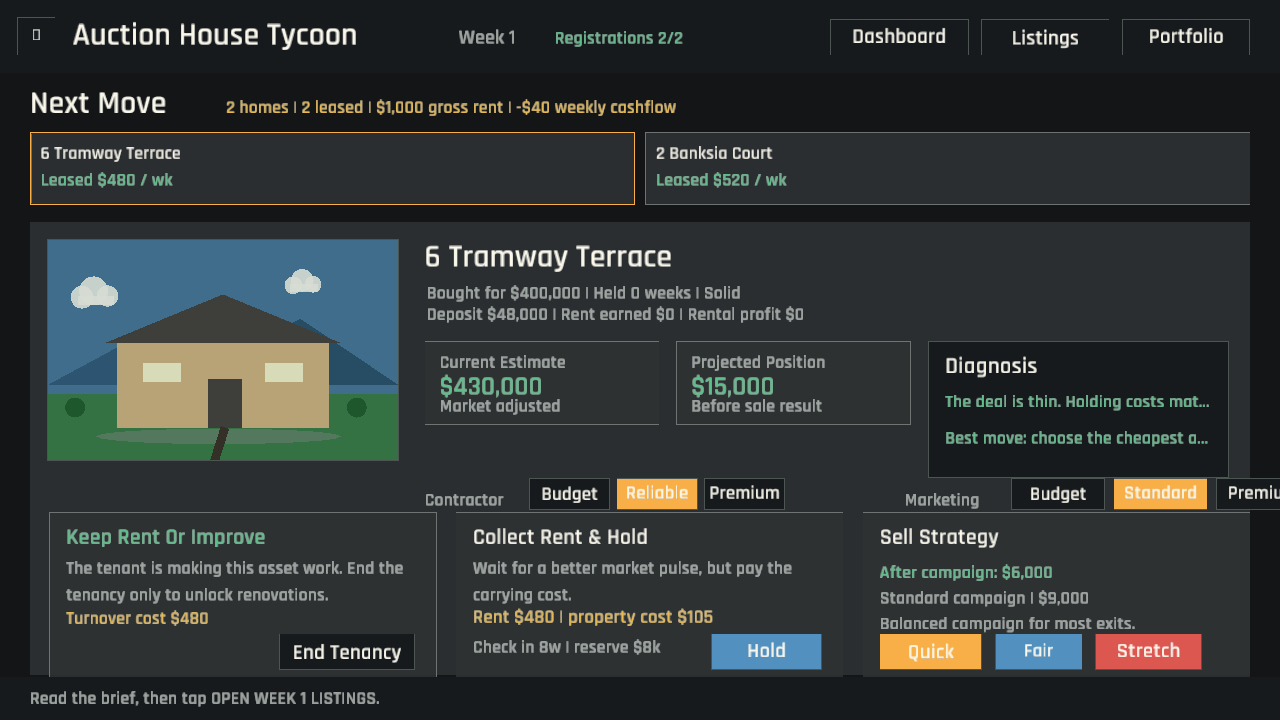
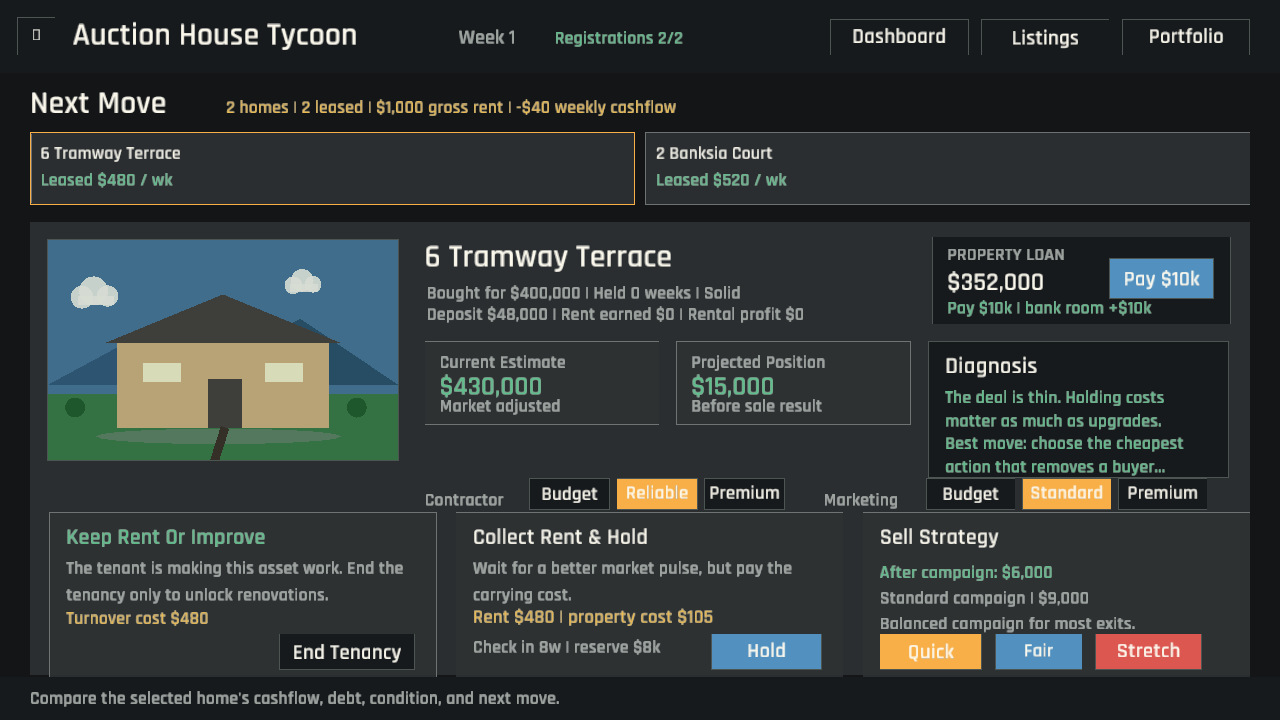
The portfolio learns when spare cash should quiet a loan (principal paydown)
Owning homes needed a capital-allocation decision beyond renovate, lease, hold, or sell. Players can now make a visible ,000 principal payment against the selected property, reducing both loan ledgers and freeing bank headroom while sacrificing liquidity. The portfolio layout now bounds diagnosis copy, fits every selector at browser width, and explains maintenance states without overlap.

Changed region(s): [[0.625, 0.55, 1.0, 0.7333], [0.7188, 0.3361, 0.9688, 0.4583], [0.0312, 0.9472, 0.4375, 0.9778]]

diff --git a/src/screens/portfolio_widgets.rs b/src/screens/portfolio_widgets.rs
@@ -68,13 +68,14 @@ pub(super) fn draw_problem_card(
         };
         (diagnosis.summary.clone(), color)
     };
-    label_fit(
+    draw_limited_lines(
         &summary,
         rect.x + 16.0,
-        rect.y + 62.0,
+        rect.y + 58.0,
         rect.w - 32.0,
         17,
         color,
+        2,
     );
     let detail = owned.active_renovation.as_ref().map_or_else(
         || {
@@ -99,10 +100,10 @@ pub(super) fn draw_problem_card(
             )
         },
     );
-    label_fit(
+    draw_limited_lines(
         &detail,
         rect.x + 16.0,
-        rect.y + 96.0,
+        rect.y + 101.0,
         rect.w - 32.0,
         15,
         if bank_room >= 80_000 {
@@ -112,7 +113,33 @@ pub(super) fn draw_problem_card(
         } else {
             NEGATIVE
         },
+        2,
     );
+}
+
+pub(super) fn draw_loan_control(rect: Rect, owned: &OwnedProperty, cash: i64) -> bool {
+    dark_panel(rect);
+    label("PROPERTY LOAN", rect.x + 14.0, rect.y + 22.0, 13, TEXT_DIM);
+    label(
+        &format_money(owned.debt),
+        rect.x + 14.0,
+        rect.y + 50.0,
+        24,
+        TEXT_BRIGHT,
+    );
+    label(
+        "Pay $10k | bank room +$10k",
+        rect.x + 14.0,
+        rect.y + 72.0,
+        13,
+        POSITIVE,
+    );
+    button(
+        Rect::new(rect.x + rect.w - 114.0, rect.y + 20.0, 98.0, 38.0),
+        "Pay $10k",
+        owned.debt > 0 && cash >= 10_000,
+        ButtonTone::Secondary,
+    )
 }
 
 pub(super) fn draw_maintenance_decision(rect: Rect, owned: &OwnedProperty, cash: i64) -> bool {
@@ -596,7 +623,7 @@ pub(super) fn draw_contractor_selector(app: &mut App, main: Rect, locked: bool) 
 }
 
 pub(super) fn draw_marketing_selector(app: &mut App, main: Rect, owned: &OwnedProperty) {
-    label("Marketing", main.x + 820.0, main.y + 266.0, 16, TEXT_DIM);
+    label("Marketing", main.x + 744.0, main.y + 266.0, 16, TEXT_DIM);
     let options = [
         MarketingPlan::Budget,
         MarketingPlan::Standard,
@@ -606,9 +633,9 @@ pub(super) fn draw_marketing_selector(app: &mut App, main: Rect, owned: &OwnedPr
         let selected = app.selected_marketing_plan == *plan;
         if button(
             Rect::new(
-                main.x + 920.0 + index as f32 * 96.0,
+                main.x + 840.0 + index as f32 * 90.0,
                 main.y + 240.0,
-                88.0,
+                84.0,
                 30.0,
             ),
             plan.label(),
@@ -635,6 +662,33 @@ fn short_note(note: &str) -> &str {
     note.char_indices()
         .nth(30)
         .map_or(note, |(index, _)| &note[..index])
+}
+
+fn draw_limited_lines(
+    text: &str,
+    x: f32,
+    y: f32,
+    max_width: f32,
+    size: u16,
+    color: Color,
+    max_lines: usize,
+) {
+    let size = size.max(17);
+    let mut lines = macroquad_toolkit::ui::wrap_text(text, max_width, size as f32);
+    let was_truncated = lines.len() > max_lines;
+    lines.truncate(max_lines);
+    if was_truncated {
+        if let Some(last) = lines.last_mut() {
+            *last = macroquad_toolkit::ui::truncate_text_to_width(
+                &format!("{last}..."),
+                max_width,
+                size as f32,
+            );
+        }
+    }
+    for (index, line) in lines.iter().enumerate() {
+        label(line, x, y + index as f32 * (size as f32 + 5.0), size, color);
+    }
 }
 
 fn project_status(project: &ActiveRenovation) -> String {

diff --git a/src/screens/portfolio.rs b/src/screens/portfolio.rs
@@ -2,9 +2,9 @@ use crate::app::App;
 use crate::model::PropertyId;
 use crate::screens::portfolio_widgets::{
     draw_active_project_decision, draw_contractor_selector, draw_empty_portfolio,
-    draw_hold_decision, draw_lease_decision, draw_maintenance_decision, draw_marketing_selector,
-    draw_problem_card, draw_sell_decision, draw_skip_renovation, draw_upgrade_decision,
-    recommended_upgrade,
+    draw_hold_decision, draw_lease_decision, draw_loan_control, draw_maintenance_decision,
+    draw_marketing_selector, draw_problem_card, draw_sell_decision, draw_skip_renovation,
+    draw_upgrade_decision, recommended_upgrade,
 };
 use crate::sim::campaign::{weekly_debt_interest, weekly_holding_cost};
 use crate::sim::finance::borrowing_limit;
@@ -179,6 +179,11 @@ impl App {
             bank_room,
             self.market(),
         );
+        let pay_down = draw_loan_control(
+            Rect::new(main.x + main.w - 298.0, main.y + 14.0, 280.0, 82.0),
+            &owned,
+            self.player.cash,
+        );
 
         let card_y = main.y + 272.0;
         let card_w = (main.w - 54.0) / 3.0;
@@ -254,7 +259,9 @@ impl App {
         draw_contractor_selector(self, main, has_active_project);
         draw_marketing_selector(self, main, &owned);
 
-        if let Some((property_id, upgrade_id)) = upgrade_action {
+        if pay_down {
+            self.pay_down_property_debt(owned.property.id);
+        } else if let Some((property_id, upgrade_id)) = upgrade_action {
             self.buy_upgrade(property_id, &upgrade_id);
         }
         if repair_maintenance_action {

diff --git a/src/sim/finance.rs b/src/sim/finance.rs
@@ -1,4 +1,4 @@
-use crate::model::{MarketEvent, Player};
+use crate::model::{MarketEvent, Player, PropertyId};
 use crate::sim::rental::portfolio_rental_snapshot;
 use crate::sim::valuation::{cash_needed_to_settle, deposit, net_worth, round_down_to_increment};
 
@@ -80,6 +80,25 @@ pub fn max_financeable_bid(player: &Player, market: &MarketEvent) -> i64 {
         }
     }
     best
+}
+
+pub fn pay_down_principal(player: &mut Player, property_id: PropertyId, requested: i64) -> i64 {
+    let Some(index) = player
+        .properties
+        .iter()
+        .position(|owned| owned.property.id == property_id)
+    else {
+        return 0;
+    };
+    let payment = requested.min(player.properties[index].debt).max(0);
+    if payment == 0 || player.cash < payment {
+        return 0;
+    }
+
+    player.cash -= payment;
+    player.debt -= payment;
+    player.properties[index].debt -= payment;
+    payment
 }
 
 #[cfg(test)]

diff --git a/src/sim/finance/tests.rs b/src/sim/finance/tests.rs
@@ -30,6 +30,25 @@ fn finance_snapshot_blocks_deals_above_limit() {
 }
 
 #[test]
+fn principal_payment_reduces_cash_and_both_debt_ledgers() {
+    let data = GameData::load();
+    let market = &data.market_events[0];
+    let mut player = Player::new();
+    let property = Property::from_template(&data.properties[0]);
+    acquire_and_lease(&mut player, property, market);
+    let property_id = player.properties[0].property.id;
+    let cash_before = player.cash;
+    let debt_before = player.debt;
+
+    let paid = pay_down_principal(&mut player, property_id, 10_000);
+
+    assert_eq!(paid, 10_000);
+    assert_eq!(player.cash, cash_before - paid);
+    assert_eq!(player.debt, debt_before - paid);
+    assert_eq!(player.properties[0].debt, debt_before - paid);
+}
+
+#[test]
 fn two_performing_rentals_and_discipline_open_the_third_purchase() {
     let data = GameData::load();
     let market = &data.market_events[0];

diff --git a/src/app/portfolio_actions.rs b/src/app/portfolio_actions.rs
@@ -1,10 +1,24 @@
 use super::App;
 use crate::model::PropertyId;
+use crate::sim::finance::pay_down_principal;
 use crate::sim::maintenance::repair_maintenance;
 use crate::sim::rental::{end_tenancy, leasing_cost, weekly_rent_for_owned};
 use crate::ui::format_money;
 
 impl App {
+    pub(crate) fn pay_down_property_debt(&mut self, property_id: PropertyId) {
+        let paid = pay_down_principal(&mut self.player, property_id, 10_000);
+        if paid == 0 {
+            self.status =
+                "Keep at least $10,000 cash available for a principal payment.".to_string();
+            return;
+        }
+        self.status = format!(
+            "Paid {} off the selected loan. Interest pressure and bank debt both fell.",
+            format_money(paid)
+        );
+    }
+
     pub(crate) fn lease_property(&mut self, property_id: PropertyId) {
         let Some(index) = self
             .player

diff --git a/src/app/capture.rs b/src/app/capture.rs
@@ -67,6 +67,9 @@ impl App {
                 self.start_new_game();
                 self.seed_portfolio_capture();
                 self.screen = Screen::Portfolio;
+                self.status =
+                    "Compare the selected home's cashflow, debt, condition, and next move."
+                        .to_string();
             }
             "portfolio_maintenance" => {
                 self.start_new_game();
@@ -76,6 +79,8 @@ impl App {
                 }
                 trigger_due_maintenance(&mut self.player);
                 self.screen = Screen::Portfolio;
+                self.status = "A maintenance check found an issue. Repair it to restore full rent."
+                    .to_string();
             }
             "conclusion" => {
                 self.start_new_game();

diff --git a/GAME_DESIGN.md b/GAME_DESIGN.md
@@ -37,6 +37,7 @@ The three requirements prevent a single degenerate strategy. Cheap but poor asse
 - Known structural defects must be repaired before a tenant can be placed.
 - Completed improvements raise the next rent appraisal; an existing tenancy can be ended for one week's rent to reopen renovation.
 - Rent supports cashflow and borrowing capacity, but debt, ownership costs, and scheduled maintenance remain visible.
+- Spare cash can reduce a selected property's principal, trading liquidity for lower debt and more bank headroom.
 - Maintenance checks occur on a disclosed schedule, reduce collected rent until repaired, and never arrive as uncontrolled random punishment.
 - Walking away preserves capital and can build discipline reputation when a rival overheats.
 - The season ledger values attendance, settled purchases, disciplined exits, post-auction buys, completed sales, and realized profit.

diff --git a/README.md b/README.md
@@ -14,6 +14,7 @@ Winning an auction is not automatically good. The real challenge is knowing what
 - Hear a legal vendor bid below the hidden reserve and the auctioneer's decisive on-market call.
 - Negotiate a visible vendor counteroffer after a pass-in, or leave the private deal untouched.
 - Build a season record that credits disciplined exits alongside purchases and profitable sales.
+- Pay down individual property loans when freeing bank headroom matters more than keeping cash liquid.
 - Renovate, place or end tenancies, collect rent, handle scheduled maintenance, hold, or sell purchased properties.
 - Track every property, cash, debt, rent, weekly cashflow, fees, repairs, and net worth.
 
